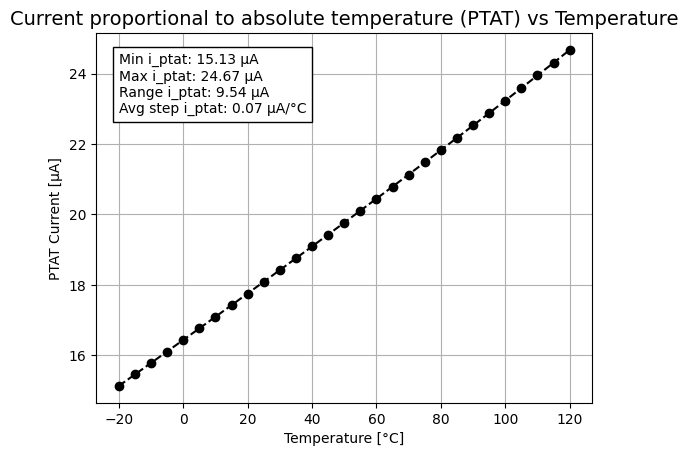
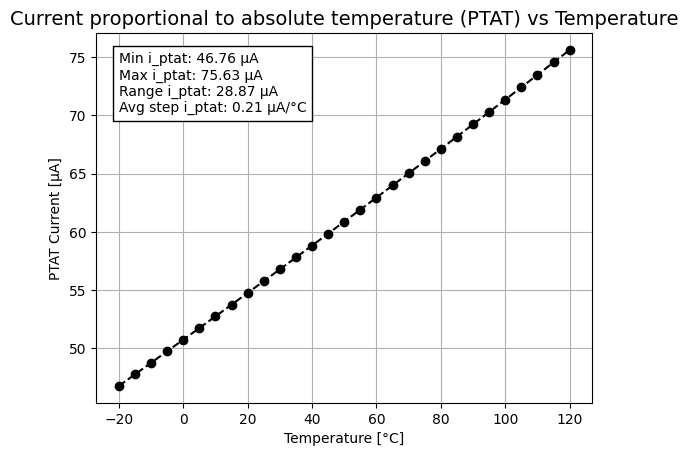
increased size difference between diode connected bjt Q1 and Q2, as well as commented out python code that might stop the sim workflow from passing

diff --git a/sim/temperature_to_current_tord/tran.py b/sim/temperature_to_current_tord/tran.py
@@ -7,7 +7,7 @@ import matplotlib.pyplot as plt
 
 def main(name="output_tran/tran_SchGtKttTtVt"):
   # Delete next line if you want to use python post processing
-  # return
+  return
 
   # fname = name + ".png"
   # print(f"Saving {fname}")
